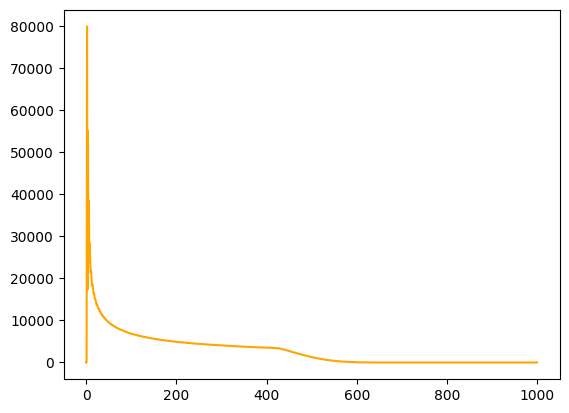
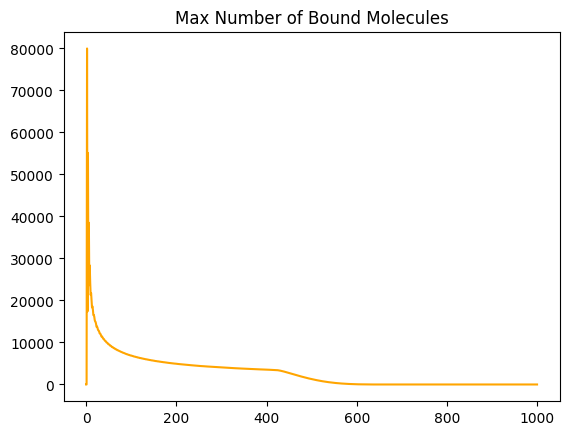
Smooth adaptive affinity calculation

diff --git a/README.md b/README.md
@@ -250,6 +250,7 @@ plt.show()
 
 # Let's also have a look at the maximum number of bound molecules
 plt.plot(max_bound_molecules, color="orange")
+plt.title("Max Number of Bound Molecules")
 plt.show()
 ```
 
@@ -284,3 +285,63 @@ plt.show()
 
 
 We see the oscillating behaviour at the beginning. First there are no bound molecules so $f_{bound}$ is high (0.8). In the next step the affinity is starkly decreased due to the high number of bound molecules. This is an issue in our model but does not affect the qualitative result. We can smooth this behaviour out a bit in a further iteration of the model.
+
+
+```python
+# Define parameters
+n_cells = 100
+n_steps = 1_000
+n_molecules = 100_000
+K = 4
+
+def frac_bound(n_bound):
+    # Reform K to a fractional entity - now also depending on loading
+    k = K * np.exp(-n_bound / 30_000)
+    frac_bound = k / (1 + k)
+    return frac_bound
+
+# Initial state (zero everywhere)
+stationary_phase = np.zeros(n_cells)
+mobile_phase = np.zeros(n_cells + n_steps)
+max_bound_molecules = np.zeros(n_steps + 1)
+
+# Loading of mobile phase in cell just before the stationary phase
+mobile_phase[n_cells] = n_molecules
+
+for step in range(1, n_steps + 1):
+    # Equilibration
+    max_bound_molecules[step] = np.max(stationary_phase)
+    for cell in range(n_cells):
+        n_bound_old = stationary_phase[cell]
+        n_tot = n_bound_old + mobile_phase[cell + step]
+        # Average fraction of bound molecules with previous step
+        n_frac_old = frac_bound(n_bound_old)
+        n_bound_new = np.floor(n_tot * n_frac_old)
+        n_frac_new = frac_bound(n_bound_new)
+        n_bound = (n_bound_old + n_bound_new) / 2
+        n_free = n_tot - n_bound
+        stationary_phase[cell] = n_bound
+        mobile_phase[cell + step] = n_free
+
+plt.plot(mobile_phase)
+plt.xlim(0, n_steps)
+plt.show()
+
+# Let's also have a look at the maximum number of bound molecules
+plt.plot(max_bound_molecules, color="orange")
+plt.title("Max Number of Bound Molecules")
+plt.xlim(0, 100)
+plt.show()
+```
+
+
+    
+![png](README_files/README_18_0.png)
+    
+
+
+
+    
+![png](README_files/README_18_1.png)
+    
+
